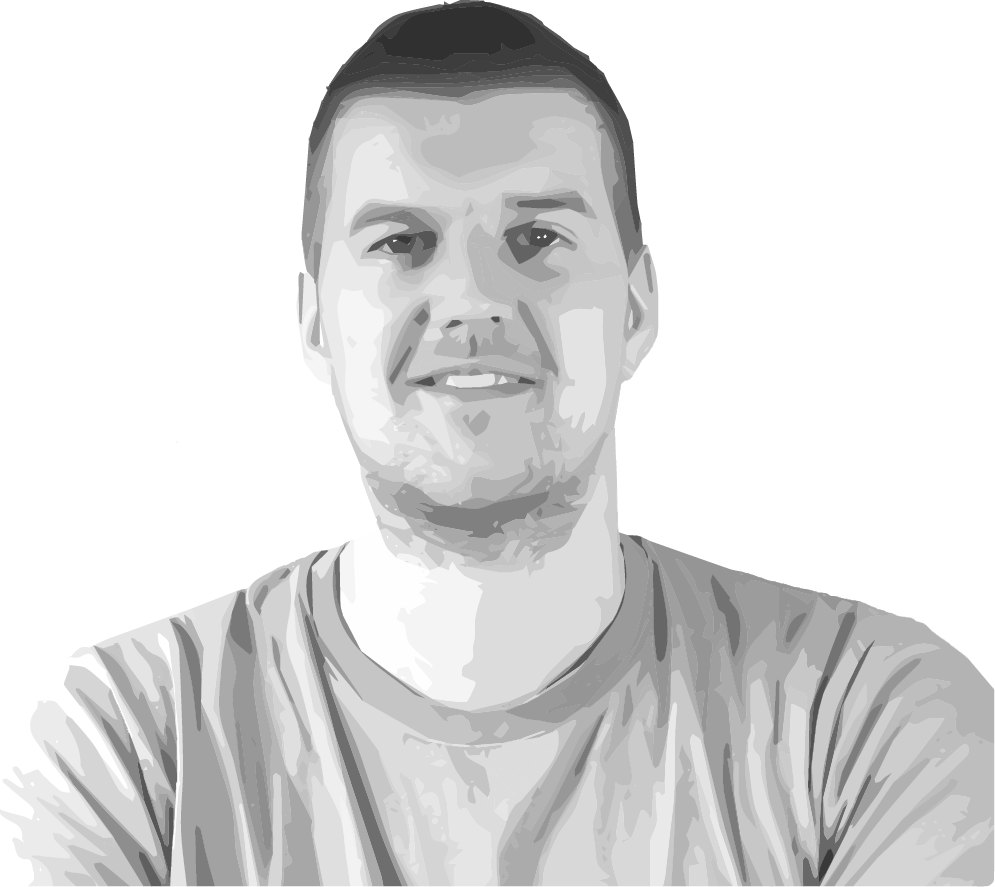
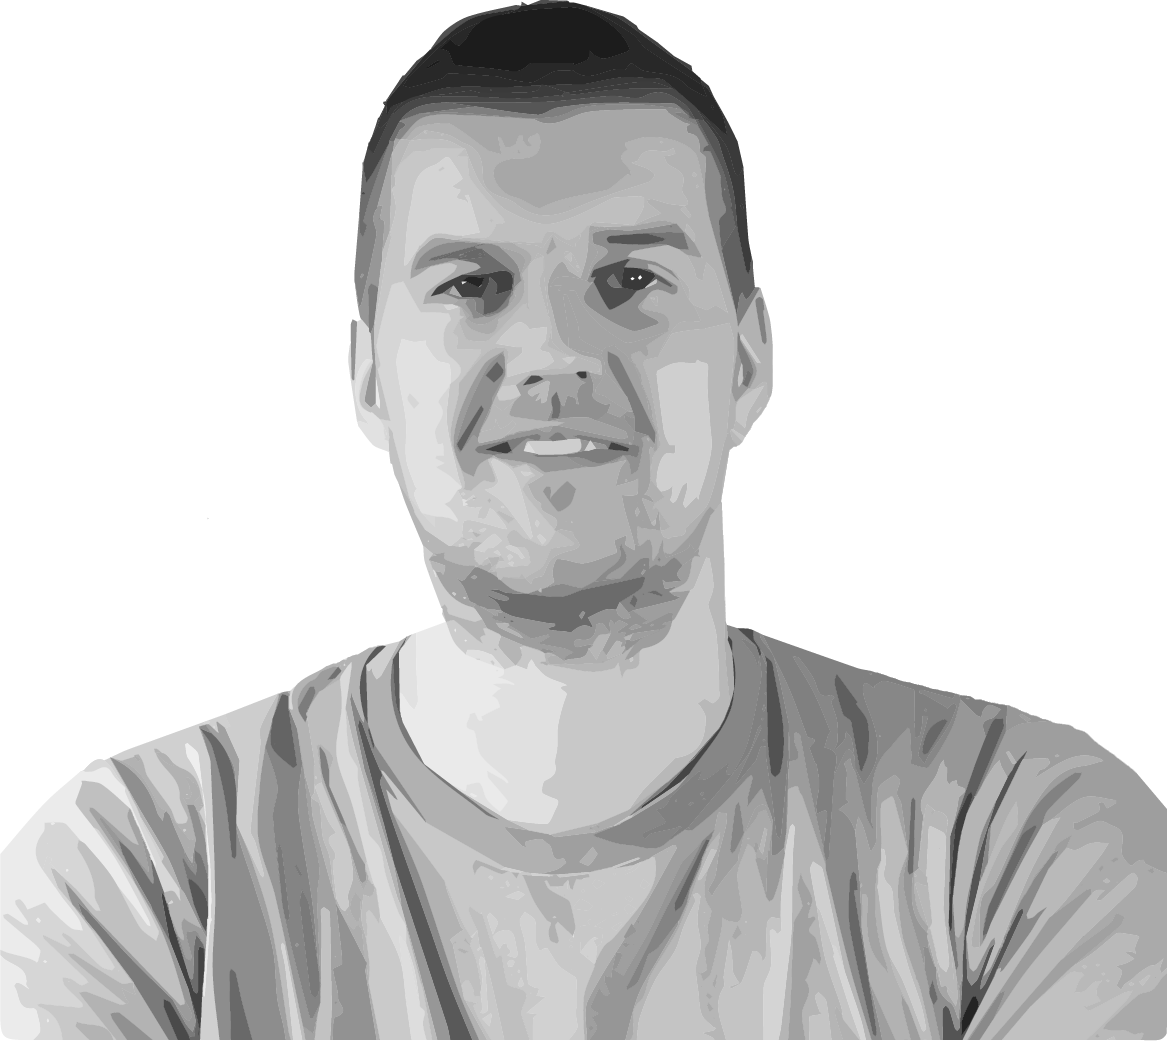
home photo issues

diff --git a/styles/Home.module.scss b/styles/Home.module.scss
@@ -47,7 +47,7 @@ $buttonColor: rgb(226, 226, 226);
 }
 
 .photo {
-	background-image: url(../images/photo.jpg);
+	background-image: url(../images/photo.png);
 	width: 100%;
 	height: 100%;
 	background-size: cover;
